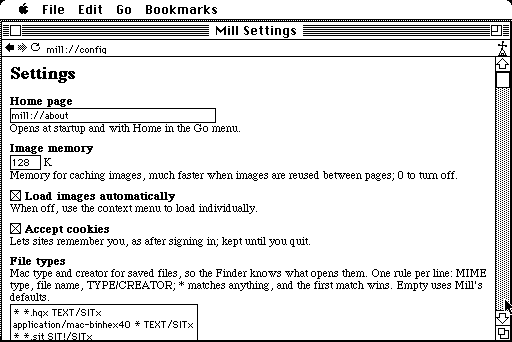
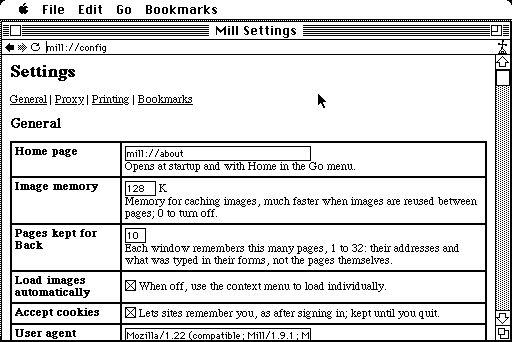
Screenshots: About, The Millionth, and Settings

Changed region(s): [[0.0, 0.2632, 1.0, 0.9942], [0.0, 0.117, 1.0, 0.2632], [0.625, 0.2924, 0.6562, 0.3216]]

diff --git a/README.md b/README.md
@@ -9,8 +9,8 @@ and inline images, which is achievable for them.
 
 Freeware from OneInAMillion Software.
 
-![The splash screen while Mill starts](screenshots/splash.png)
-![The Millionth's front page](screenshots/front.png)
+![Mill's About page](screenshots/about.png)
+![The Millionth's front page](screenshots/millionth.png)
 ![Mill's settings page](screenshots/settings.png)
 
 On a Mac Plus running System 6.0.8.
